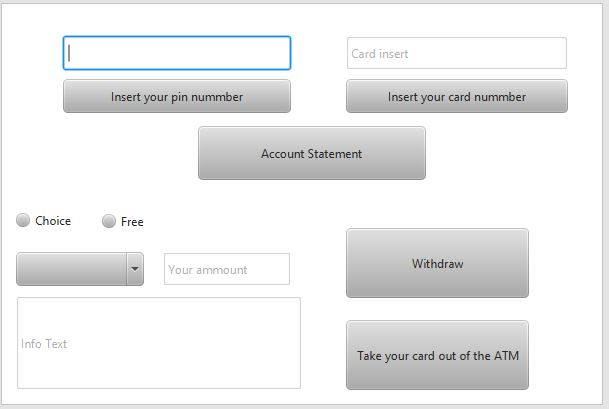
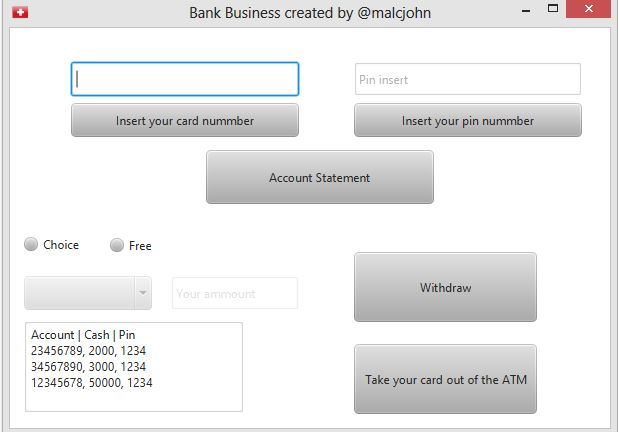
renamed several files beginners work on account possibility readme updated with new picture added a controller class for a new fxml model image added, updated

diff --git a/src/application/MenuController.java b/src/application/MenuController.java
@@ -2,6 +2,7 @@ package application;
 
 import java.net.*;
 import java.util.*;
+
 import exceptions.*;
 import logic.*;
 import javafx.collections.*;
@@ -16,7 +17,7 @@ import javafx.scene.input.*;
  * This class was generated in SceneBuilder. Great feature
  */
 
-public class Controller {
+public class MenuController {
 
 	@FXML
 	private ResourceBundle resources;
@@ -124,6 +125,19 @@ public class Controller {
 		MoneyToWithMethod();
 
 	}
+	
+	/*
+	 * nonEditBox.addEventHandler(KeyEvent.ANY, new EventHandler<KeyEvent>() {
+
+			@Override
+			public void handle(KeyEvent keyEvent) {
+				if (keyEvent.getCode().equals(KeyCode.BACK_SPACE)
+						|| keyEvent.getCode().equals(KeyCode.DELETE)) {
+					System.out.println("VBox is receiving key event !");
+				}
+			}
+		});
+	 */
 
 	@FXML
 	void CardAcceptMethod() {
@@ -136,13 +150,14 @@ public class Controller {
 							.getText());
 					cashCard.setAccountNumber(karteNummer);
 					maschine.insertCashCard(cashCard);
-					InfoTetx.setText("You have inserted a card in ATM");
+					InfoTetx.appendText("\n You have inserted a card in ATM");
 				} catch (CardInsertedException e) {
 					System.out.println(e.getMessage());
 				} catch (InvalidCardException e) {
 					System.out.println(e.getMessage());
 				}
 				InsertAccNumber.setEditable(false);
+				event.consume();
 			}
 		});
 	}
@@ -165,7 +180,7 @@ public class Controller {
 										.parseInt(InsertAccNumber.getText());
 								cashCard.setAccountNumber(karteNummer);
 								maschine.insertCashCard(cashCard);
-								InfoTetx.setText("You have inserted a card in ATM");
+								InfoTetx.appendText("\n You have inserted a card in ATM");
 							} catch (CardInsertedException e) {
 								System.out.println(e.getMessage());
 							} catch (InvalidCardException e) {
@@ -190,7 +205,7 @@ public class Controller {
 								int pinNummer = Integer
 										.parseInt(InsertPinNumber.getText());
 								maschine.pinInsert(pinNummer);
-								InfoTetx.setText("You habe inserted a pin number in ATM");
+								InfoTetx.appendText("\n You habe inserted a pin in ATM");
 							} catch (PinNotCorectException e) {
 								System.out.println(e.getMessage());
 							} catch (CardNotInsertedException e) {
@@ -214,7 +229,7 @@ public class Controller {
 				try {
 					int pinNummer = Integer.parseInt(InsertPinNumber.getText());
 					maschine.pinInsert(pinNummer);
-					InfoTetx.setText("You habe inserted a pin number in ATM");
+					InfoTetx.appendText("\n You habe inserted a pin number in ATM");
 				} catch (PinNotCorectException e) {
 					System.out.println(e.getMessage());
 				} catch (CardNotInsertedException e) {
@@ -223,7 +238,8 @@ public class Controller {
 					System.out.println(e.getMessage());
 				}
 				InsertPinNumber.setEditable(false);
-				InfoTetx.setText("take your card out, then you can change the number again");
+				InfoTetx.appendText("\n take your card out, then you can change the number again");
+				event.consume();
 			}
 		});
 	}
@@ -234,9 +250,10 @@ public class Controller {
 
 			@Override
 			public void handle(ActionEvent event) {
-				InfoTetx.setText(maschine.accountStatementMethod());
+				InfoTetx.appendText("\n" + maschine.accountStatementMethod());
 				AmmountMoneyToWid.setDisable(false);
 				ComboBox.setDisable(false);
+				event.consume();
 			}
 		});
 	}
@@ -265,6 +282,7 @@ public class Controller {
 				} catch (CardNotInsertedException e) {
 					System.out.println(e.getMessage());
 				}
+				event.consume();
 			}
 		});
 	}
@@ -274,25 +292,30 @@ public class Controller {
 		MoneyToWith.setOnAction(new EventHandler<ActionEvent>() {
 
 			@Override
-			public void handle(ActionEvent arg0) {
+			public void handle(ActionEvent event) {
 				try {
 					if (ChoiceMoney.isSelected()) {
 						maschine.withdraw(ComboBox.getValue());
-						InfoTetx.setText(maschine.accountStatementMethod());
+						InfoTetx.appendText("--New--");
+						InfoTetx.appendText("\n"
+								+ maschine.accountStatementMethod());
 
 					} else if (FreeMoney.isSelected()) {
 						double zahl2 = Double.parseDouble(AmmountMoneyToWid
 								.getText());
 						maschine.withdraw(zahl2);
-						InfoTetx.setText(maschine.accountStatementMethod());
+						InfoTetx.appendText("--New--");
+						InfoTetx.appendText("\n"
+								+ maschine.accountStatementMethod());
 					} else {
-						InfoTetx.setText("mistake");
+						InfoTetx.appendText("\n You must choose the ammount to withdraw");
 					}
 				} catch (PinNotCorectException e) {
 					System.out.println(e.getMessage());
 				} catch (NotEnoughMoneyException e) {
 					System.out.println(e.getMessage());
 				}
+				event.consume();
 			} // here end of the small method
 		});
 	}// here the end of the method

diff --git a/src/application/AccountController.java b/src/application/AccountController.java
@@ -1,0 +1,58 @@
+package application;
+
+import java.net.*;
+import java.util.*;
+import exceptions.*;
+import logic.*;
+import javafx.collections.*;
+import javafx.event.*;
+import javafx.fxml.*;
+import javafx.scene.control.*;
+import javafx.scene.input.*;
+
+public class AccountController {
+
+	@FXML
+	private ResourceBundle resources;
+
+	@FXML
+	private URL location;
+
+	@FXML
+	private TextField AccountNumberField;
+
+	@FXML
+	private TextField CashField;
+
+	@FXML
+	private TextField OverdraftField;
+
+	@FXML
+	private PasswordField PinField;
+
+	@FXML
+	void AccountNumberMethod() {
+	}
+
+	@FXML
+	void CashFieldMethod() {
+	}
+
+	@FXML
+	void OverdraftFieldMethod() {
+	}
+
+	@FXML
+	void PinFiledMethod() {
+	}
+
+	@FXML
+	void initialize() {
+		assert AccountNumberField != null : "fx:id=\"AccountNumberField\" was not injected: check your FXML file 'Account.fxml'.";
+		assert CashField != null : "fx:id=\"CashField\" was not injected: check your FXML file 'Account.fxml'.";
+		assert OverdraftField != null : "fx:id=\"OverdraftField\" was not injected: check your FXML file 'Account.fxml'.";
+		assert PinField != null : "fx:id=\"PinField\" was not injected: check your FXML file 'Account.fxml'.";
+
+	}
+
+}

diff --git a/src/application/Main.java b/src/application/Main.java
@@ -9,7 +9,8 @@ import javafx.stage.Stage;
 public class Main extends Application {
 	@Override
 	public void start(Stage primaryStage) throws Exception {
-		Parent root = FXMLLoader.load(getClass().getResource("/res/UI.fxml"));
+		Parent root = FXMLLoader.load(getClass().getResource("/res/Main.fxml"));
+		Parent root2 = FXMLLoader.load(getClass().getResource("/res/Account.fxml"));
 		Scene frame = new Scene(root);
 		primaryStage.getIcons().add(new Image("/res/icon.png"));
 		primaryStage.isResizable();

diff --git a/README.md b/README.md
@@ -28,5 +28,5 @@ Here (TBA)
 
 **Features in the future** 
 
-1. [] Allow to add accounts in the cashmaschine dynamically, through another fxml model.
-2. [] TextField should be done with Scrollbar
+1. [] Allow to add accounts in the cashmaschine dynamically, through another fxml model. Nice to create some menu 
+2. [x] TextField should be done with Scrollbar
